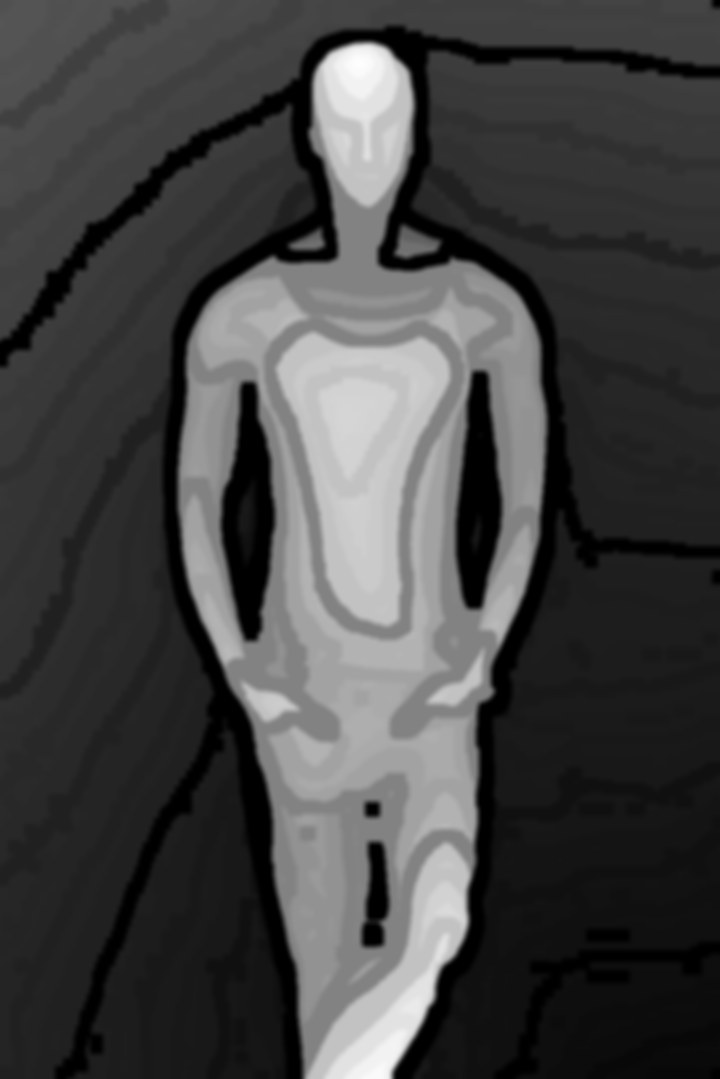
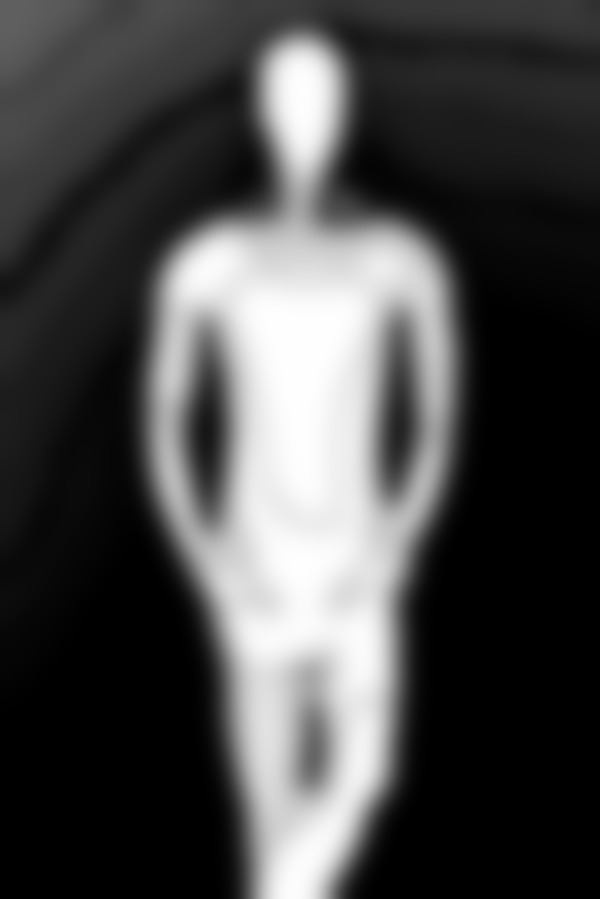
feat: two-layer hero portrait parallax with blink

diff --git a/src/components/heroDepth.ts b/src/components/heroDepth.ts
@@ -1,14 +1,21 @@
-// 3D portrait: the photo is redrawn in WebGL and each pixel is shifted by its depth (hero-depth.jpg, made locally
-// with Depth Anything V2), so the head turns a few degrees after the mouse, like a 3D photo.
-// Mouse only, on demand: frames are drawn only while the head is still catching up with the pointer.
+// 3D portrait: the photo is redrawn in WebGL as two layers, the wall and me, so the head turns a few degrees after
+// the mouse like a 3D photo. Built locally from the hero photo (no service saw it):
+// - hero-plate: the wall with me removed and filled in, revealed along my outline as I move
+// - hero-mask: my outline (macOS person segmentation, the shadow on the wall cut off)
+// - hero-depth: how far each part of me moves, the depth map blurred hard so I move as one smooth piece:
+//   no folds, so the head never doubles or tears at its edge
+// - hero-blink: the eyes closed, graded like the photo; swapped in for a blink every few seconds
+// Frames are drawn only on demand: while the head catches up with the pointer, or during a blink.
 
 import depthImg from '@/assets/hero-depth.jpg'
+import plateImg from '@/assets/hero-plate.jpg'
+import maskImg from '@/assets/hero-mask.jpg'
+import blinkImg from '@/assets/hero-blink.jpg'
 
-const FOCUS = 0.15 // the wall's depth: it stays put and only the head moves, so nothing behind it is uncovered
-const HEAD = 0.62 // depth of the face above the wall
 const SHIFT_PX = 18 // the head moves at most this far on screen, whatever the monitor size
 const SHIFT_MAX = 0.02 // and at most this share of the photo (the small avatar)
 const EASE = 0.07
+const EYES = [0.4308, 0.0949, 0.1521, 0.0503] // the blink patch on the photo: x, y, w, h (0..1)
 
 const VERT = `
 attribute vec2 p;
@@ -19,18 +26,23 @@ void main() { vUv = vec2(p.x, -p.y) * 0.5 + 0.5; gl_Position = vec4(p, 0.0, 1.0)
 const FRAG = `
 precision mediump float;
 uniform sampler2D uImg;
+uniform sampler2D uPlate;
+uniform sampler2D uMask;
 uniform sampler2D uDepth;
+uniform sampler2D uEyes;
 uniform vec2 uShift; // eased pointer (-1..1) × strength, in texture space
+uniform vec4 uRect; // where the eyes patch sits
+uniform float uBlink; // 0 open → 1 closed
 varying vec2 vUv;
 void main() {
-  // no zoom: the callouts sit on the photo in % and must stay on it; edges just clamp (shift is under 1%)
-  vec2 uv = vUv;
-  // near parts follow the pointer; the depth is re-read at the shifted point a few times, so the head's edge
-  // moves as one piece instead of doubling
-  float d = texture2D(uDepth, uv).r;
-  for (int i = 0; i < 3; i++) d = texture2D(uDepth, uv - uShift * max(d - ${FOCUS.toFixed(2)}, 0.0)).r;
-  uv -= uShift * max(d - ${FOCUS.toFixed(2)}, 0.0);
-  gl_FragColor = texture2D(uImg, uv);
+  // where on the photo this pixel comes from: the move is smooth, so a few fixed-point steps find it exactly
+  vec2 s = vUv;
+  for (int i = 0; i < 4; i++) s = vUv - uShift * texture2D(uDepth, s).r;
+  vec3 me = texture2D(uImg, s).rgb;
+  vec2 q = (s - uRect.xy) / uRect.zw;
+  if (uBlink > 0.0 && q.x > 0.0 && q.x < 1.0 && q.y > 0.0 && q.y < 1.0) me = mix(me, texture2D(uEyes, q).rgb, uBlink);
+  // me over the wall: the wall stays put, so whatever I uncover is real wall
+  gl_FragColor = vec4(mix(texture2D(uPlate, vUv).rgb, me, texture2D(uMask, s).r), 1.0);
 }
 `
 
@@ -45,13 +57,15 @@ const load = (src: string) =>
 type Parts = { por: HTMLElement; img: HTMLImageElement; canvas: HTMLCanvasElement }
 
 export function depthPortrait({ por, img, canvas }: Parts) {
-  if (!matchMedia('(hover: hover) and (pointer: fine)').matches) return () => {}
   if (matchMedia('(prefers-reduced-motion: reduce)').matches) return () => {}
+  // touch screens get the blink only: there is no pointer to turn after
+  const pointer = matchMedia('(hover: hover) and (pointer: fine)').matches
   const gl = canvas.getContext('webgl', { antialias: false })
   if (!gl) return () => {} // no WebGL: the canvas stays hidden and the plain photo shows
 
   let alive = true
   let raf = 0
+  let blinkTimer = 0
   const res: { tex: WebGLTexture[]; buf?: WebGLBuffer; prog?: WebGLProgram } = { tex: [] }
   const onMove = (e: PointerEvent) => {
     tx = (e.clientX / innerWidth) * 2 - 1
@@ -63,91 +77,125 @@ export function depthPortrait({ por, img, canvas }: Parts) {
     schedule()
   }
   let mx = 0, my = 0, tx = 0, ty = 0
+  let blinkStart = -1, blinks = 1
   let draw = () => {}
   const schedule = () => {
     if (!raf) raf = requestAnimationFrame(() => draw())
   }
 
-  load(depthImg.src).then((depth) => {
-    if (!alive) return
-    const shader = (type: number, src: string) => {
-      const s = gl.createShader(type)!
-      gl.shaderSource(s, src)
-      gl.compileShader(s)
-      return s
-    }
-    const prog = (res.prog = gl.createProgram()!)
-    gl.attachShader(prog, shader(gl.VERTEX_SHADER, VERT))
-    gl.attachShader(prog, shader(gl.FRAGMENT_SHADER, FRAG))
-    gl.linkProgram(prog)
-    if (!gl.getProgramParameter(prog, gl.LINK_STATUS)) return
-    gl.useProgram(prog)
-
-    res.buf = gl.createBuffer()!
-    gl.bindBuffer(gl.ARRAY_BUFFER, res.buf)
-    gl.bufferData(gl.ARRAY_BUFFER, new Float32Array([-1, -1, 3, -1, -1, 3]), gl.STATIC_DRAW)
-    const loc = gl.getAttribLocation(prog, 'p')
-    gl.enableVertexAttribArray(loc)
-    gl.vertexAttribPointer(loc, 2, gl.FLOAT, false, 0, 0)
-
-    // big srcset candidates can exceed the GPU texture limit, so the photo is downscaled through a 2D canvas if needed
-    const max = Math.min(gl.getParameter(gl.MAX_TEXTURE_SIZE) as number, 4096)
-    let photo: TexImageSource = img
-    if (Math.max(img.naturalWidth, img.naturalHeight) > max) {
-      const k = max / Math.max(img.naturalWidth, img.naturalHeight)
-      const c = document.createElement('canvas')
-      c.width = Math.round(img.naturalWidth * k)
-      c.height = Math.round(img.naturalHeight * k)
-      c.getContext('2d')!.drawImage(img, 0, 0, c.width, c.height)
-      photo = c
-    }
-    const texture = (unit: number, source: TexImageSource, name: string) => {
-      const t = gl.createTexture()!
-      res.tex.push(t)
-      gl.activeTexture(gl.TEXTURE0 + unit)
-      gl.bindTexture(gl.TEXTURE_2D, t)
-      gl.texParameteri(gl.TEXTURE_2D, gl.TEXTURE_WRAP_S, gl.CLAMP_TO_EDGE)
-      gl.texParameteri(gl.TEXTURE_2D, gl.TEXTURE_WRAP_T, gl.CLAMP_TO_EDGE)
-      gl.texParameteri(gl.TEXTURE_2D, gl.TEXTURE_MIN_FILTER, gl.LINEAR)
-      gl.texParameteri(gl.TEXTURE_2D, gl.TEXTURE_MAG_FILTER, gl.LINEAR)
-      gl.texImage2D(gl.TEXTURE_2D, 0, gl.RGB, gl.RGB, gl.UNSIGNED_BYTE, source)
-      gl.uniform1i(gl.getUniformLocation(prog, name), unit)
-    }
-    texture(0, photo, 'uImg')
-    texture(1, depth, 'uDepth')
-    const uShift = gl.getUniformLocation(prog, 'uShift')
-
-    // canvas resolution follows the on-screen size in steps, so scrolling doesn't reallocate it every frame
-    const fit = () => {
+  // a blink: shut in 70ms, hold 50ms, open in 130ms; now and then a double one. −1 once it's over
+  const blinkAt = (t: number) => {
+    const shut = 70, hold = 50, open = 130, one = shut + hold + open
+    if (t > one * blinks) return -1
+    t %= one
+    return t < shut ? t / shut : t < shut + hold ? 1 : 1 - (t - shut - hold) / open
+  }
+  const queueBlink = () => {
+    blinkTimer = window.setTimeout(() => {
       const r = por.getBoundingClientRect()
-      const w = Math.min(max, Math.ceil((r.width * devicePixelRatio) / 128) * 128)
-      if (w === canvas.width) return
-      canvas.width = w
-      canvas.height = Math.round((w * por.offsetHeight) / por.offsetWidth)
-      gl.viewport(0, 0, canvas.width, canvas.height)
-    }
+      if (r.bottom > 0 && r.top < innerHeight && !document.hidden) {
+        blinks = Math.random() < 0.2 ? 2 : 1
+        blinkStart = performance.now()
+        schedule()
+      }
+      queueBlink()
+    }, 2500 + Math.random() * 3500)
+  }
 
-    draw = () => {
-      raf = 0
-      fit()
-      mx += (tx - mx) * EASE
-      my += (ty - my) * EASE
-      const k = Math.min(SHIFT_MAX, SHIFT_PX / por.getBoundingClientRect().width) / HEAD
-      gl.uniform2f(uShift, mx * k, my * k)
-      gl.drawArrays(gl.TRIANGLES, 0, 3)
-      if (Math.abs(tx - mx) > 0.001 || Math.abs(ty - my) > 0.001) schedule()
-    }
-    draw()
-    canvas.dataset.on = 'true' // shown only once the first frame is drawn
-  })
+  Promise.all([load(depthImg.src), load(plateImg.src), load(maskImg.src), load(blinkImg.src)]).then(
+    ([depth, plate, mask, eyes]) => {
+      if (!alive) return
+      const shader = (type: number, src: string) => {
+        const s = gl.createShader(type)!
+        gl.shaderSource(s, src)
+        gl.compileShader(s)
+        return s
+      }
+      const prog = (res.prog = gl.createProgram()!)
+      gl.attachShader(prog, shader(gl.VERTEX_SHADER, VERT))
+      gl.attachShader(prog, shader(gl.FRAGMENT_SHADER, FRAG))
+      gl.linkProgram(prog)
+      if (!gl.getProgramParameter(prog, gl.LINK_STATUS)) return
+      gl.useProgram(prog)
 
-  addEventListener('pointermove', onMove)
+      res.buf = gl.createBuffer()!
+      gl.bindBuffer(gl.ARRAY_BUFFER, res.buf)
+      gl.bufferData(gl.ARRAY_BUFFER, new Float32Array([-1, -1, 3, -1, -1, 3]), gl.STATIC_DRAW)
+      const loc = gl.getAttribLocation(prog, 'p')
+      gl.enableVertexAttribArray(loc)
+      gl.vertexAttribPointer(loc, 2, gl.FLOAT, false, 0, 0)
+
+      // big srcset candidates can exceed the GPU texture limit, so the photo is downscaled through a 2D canvas if needed
+      const max = Math.min(gl.getParameter(gl.MAX_TEXTURE_SIZE) as number, 4096)
+      let photo: TexImageSource = img
+      if (Math.max(img.naturalWidth, img.naturalHeight) > max) {
+        const k = max / Math.max(img.naturalWidth, img.naturalHeight)
+        const c = document.createElement('canvas')
+        c.width = Math.round(img.naturalWidth * k)
+        c.height = Math.round(img.naturalHeight * k)
+        c.getContext('2d')!.drawImage(img, 0, 0, c.width, c.height)
+        photo = c
+      }
+      const texture = (unit: number, source: TexImageSource, name: string) => {
+        const t = gl.createTexture()!
+        res.tex.push(t)
+        gl.activeTexture(gl.TEXTURE0 + unit)
+        gl.bindTexture(gl.TEXTURE_2D, t)
+        gl.texParameteri(gl.TEXTURE_2D, gl.TEXTURE_WRAP_S, gl.CLAMP_TO_EDGE)
+        gl.texParameteri(gl.TEXTURE_2D, gl.TEXTURE_WRAP_T, gl.CLAMP_TO_EDGE)
+        gl.texParameteri(gl.TEXTURE_2D, gl.TEXTURE_MIN_FILTER, gl.LINEAR)
+        gl.texParameteri(gl.TEXTURE_2D, gl.TEXTURE_MAG_FILTER, gl.LINEAR)
+        gl.texImage2D(gl.TEXTURE_2D, 0, gl.RGB, gl.RGB, gl.UNSIGNED_BYTE, source)
+        gl.uniform1i(gl.getUniformLocation(prog, name), unit)
+      }
+      texture(0, photo, 'uImg')
+      texture(1, plate, 'uPlate')
+      texture(2, mask, 'uMask')
+      texture(3, depth, 'uDepth')
+      texture(4, eyes, 'uEyes')
+      gl.uniform4f(gl.getUniformLocation(prog, 'uRect'), EYES[0], EYES[1], EYES[2], EYES[3])
+      const uShift = gl.getUniformLocation(prog, 'uShift')
+      const uBlink = gl.getUniformLocation(prog, 'uBlink')
+
+      // canvas resolution follows the on-screen size in steps, so scrolling doesn't reallocate it every frame
+      const fit = () => {
+        const r = por.getBoundingClientRect()
+        const w = Math.min(max, Math.ceil((r.width * devicePixelRatio) / 128) * 128)
+        if (w === canvas.width) return
+        canvas.width = w
+        canvas.height = Math.round((w * por.offsetHeight) / por.offsetWidth)
+        gl.viewport(0, 0, canvas.width, canvas.height)
+      }
+
+      draw = () => {
+        raf = 0
+        fit()
+        mx += (tx - mx) * EASE
+        my += (ty - my) * EASE
+        const k = Math.min(SHIFT_MAX, SHIFT_PX / por.getBoundingClientRect().width)
+        gl.uniform2f(uShift, mx * k, my * k)
+        const blink = blinkStart < 0 ? -1 : blinkAt(performance.now() - blinkStart)
+        if (blink < 0) blinkStart = -1
+        gl.uniform1f(uBlink, Math.max(blink, 0))
+        gl.drawArrays(gl.TRIANGLES, 0, 3)
+        if (Math.abs(tx - mx) > 0.001 || Math.abs(ty - my) > 0.001 || blinkStart >= 0) schedule()
+      }
+      draw()
+      canvas.dataset.on = 'true' // shown only once the first frame is drawn
+      queueBlink()
+    },
+  )
+
+  if (pointer) {
+    addEventListener('pointermove', onMove)
+    document.addEventListener('pointerleave', onLeave)
+  }
   addEventListener('scroll', schedule, { passive: true })
   addEventListener('resize', schedule)
-  document.addEventListener('pointerleave', onLeave)
   return () => {
     alive = false
     cancelAnimationFrame(raf)
+    clearTimeout(blinkTimer)
     removeEventListener('pointermove', onMove)
     removeEventListener('scroll', schedule)
     removeEventListener('resize', schedule)
